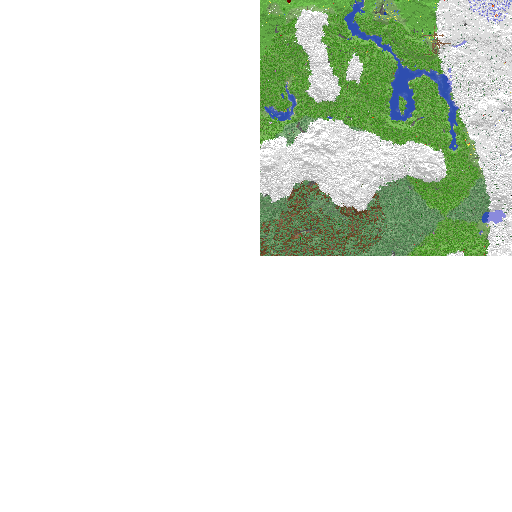
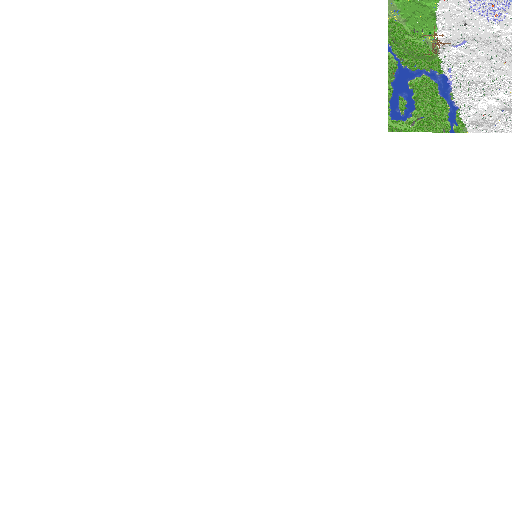
Previous folders were mislabeled, add loguru

Changed region(s): [[0.5, 0.0, 1.0, 0.5]]

diff --git a/src/squaremap_combine/squaremap_combine.py b/src/squaremap_combine/squaremap_combine.py
@@ -1,8 +1,14 @@
 import argparse
+import sys
+import time
 from pathlib import Path
 
+from loguru import logger
 from PIL import Image
 from tqdm import tqdm
+
+
+logger.remove()
 
 class CombineError(Exception):
     """Raised when anything in the image combination process fails when
@@ -55,51 +61,84 @@ class Combiner:
 
         # Start stitching
         out = Image.new(mode='RGBA', size=(self.TILE_SIZE * len(columns), self.TILE_SIZE * len(rows)))
+        ta = time.perf_counter()
+        x = 0
         for c in tqdm(regions, disable=not self.use_tqdm):
             for r in tqdm(regions[c], disable=not self.use_tqdm, leave=False):
                 x, y = self.TILE_SIZE * (c - min(columns)), self.TILE_SIZE * (r - min(rows))
                 out.paste(Image.open(regions[c][r]), (x, y, x + self.TILE_SIZE, y + self.TILE_SIZE))
-
+        tb = time.perf_counter()
+        logger.info(f'Finished in {tb - ta:04f}s')
         return out
 
 def main():
+    logger.add(sys.stdout, format="{level}: {message}", level='INFO')
+
+    #region ARGUMENTS
+    # if anyone has suggestions for a less cumbersome way to do this than argparse i'm all ears
     parser = argparse.ArgumentParser()
     parser.add_argument('tiles_dir', type=Path, help='A tiles directory generated by squaremap.')
     parser.add_argument('world', type=str, help='Which world (dimension) you want to render a map of.')
     parser.add_argument('detail', type=int,
         help='What detail level to source images from.\n' +
         'Level 3 is 1 block per pixel, 2 is 2x2 per pixel, 1 is 4x4 per pixel, and 0 is 8x8 per pixel.')
+
     parser.add_argument('--output_dir', type=Path, default=Path('.'),
         help='Directory to save the completed image to.\n' +
         'Defaults to the directory in which this script was run.')
-    parser.add_argument('--autocrop', type=bool, default=True,
-        help='Automatically crops out excess empty space in the final image. Use "--autocrop false" to disable this.')
+
+    parser.add_argument('--output_ext', type=str, default='png',
+        help='The output file extension (format) to use for the created image. Supports anything Pillow does. (e.g. "png", "jpg", "webp")')
+
+    parser.add_argument('--autotrim', type=bool, default=True,
+        help='Automatically trims off excess empty space in the final image. Use "--autotrim false" to disable this.')
+
+    parser.add_argument('--force_size', type=int, nargs=2, default=(0, 0),
+        help='Centers the assembled map inside an image of this size.\n' +
+        'Can be used to make images a consistent size if you\'re using them for a timelapse, for example.')
 
     args = parser.parse_args()
-    tiles_dir: Path = args.tiles_dir
-    world: str = args.world
-    detail: int = args.detail
-    output_dir: Path = args.output_dir
-    autocrop: bool = args.autocrop
+    tiles_dir  : Path            = args.tiles_dir
+    world      : str             = args.world
+    detail     : int             = args.detail
+    output_dir : Path            = args.output_dir
+    output_ext : str             = args.output_ext
+    autotrim   : bool            = args.autotrim
+    force_size : tuple[int, int] = tuple(args.force_size)
+    #endregion ARGUMENTS
 
     print(f"""
 Tiles directory: {tiles_dir}
 World: {world}
 Detail level: {detail}
-Output directory: {output_dir}
+Output directory: {output_dir.absolute()}
+Output file extension: {output_ext}
+Auto-trim? {autotrim}
+Force final size? {('True: ' + str(force_size)) if any(n > 0 for n in force_size) else 'False'}
     """)
 
     if world in Combiner.STANDARD_WORLDS:
         world = 'minecraft_' + world
 
-    out_file: Path = output_dir / f'{world}-{detail}.png'
+    out_file: Path = output_dir / f'{world}-{detail}.{output_ext}'
     combiner = Combiner(tiles_dir, use_tqdm=True)
     image = combiner.combine(world, detail)
-    if autocrop:
+    if autotrim:
         box = image.getbbox()
         if not box:
             raise CombineError('image.getbbox() failed')
-        print(f'Cropping out blank space for a final image of {box[2] - box[0]}x{box[3] - box[1]}')
+        print(f'Trimming out blank space to leave an image of {box[2] - box[0]}x{box[3] - box[1]}...')
         image = image.crop(box)
+    if all(n > 0 for n in force_size):
+        resized = Image.new(mode='RGBA', size=force_size)
+        print(f'Resizing canvas to {resized.size[0]}x{resized.size[1]}...')
+        center = resized.size[0] // 2, resized.size[1] // 2
+
+        x1, y1 = center[0] - (image.size[0] // 2), center[1] - (image.size[1] // 2)
+        x2, y2 = x1 + image.size[0], y1 + image.size[1]
+
+        resized.paste(image, (x1, y1, x2, y2))
+        image = resized
+
     image.save(out_file)
     print(f'Saved to "{out_file}"')
